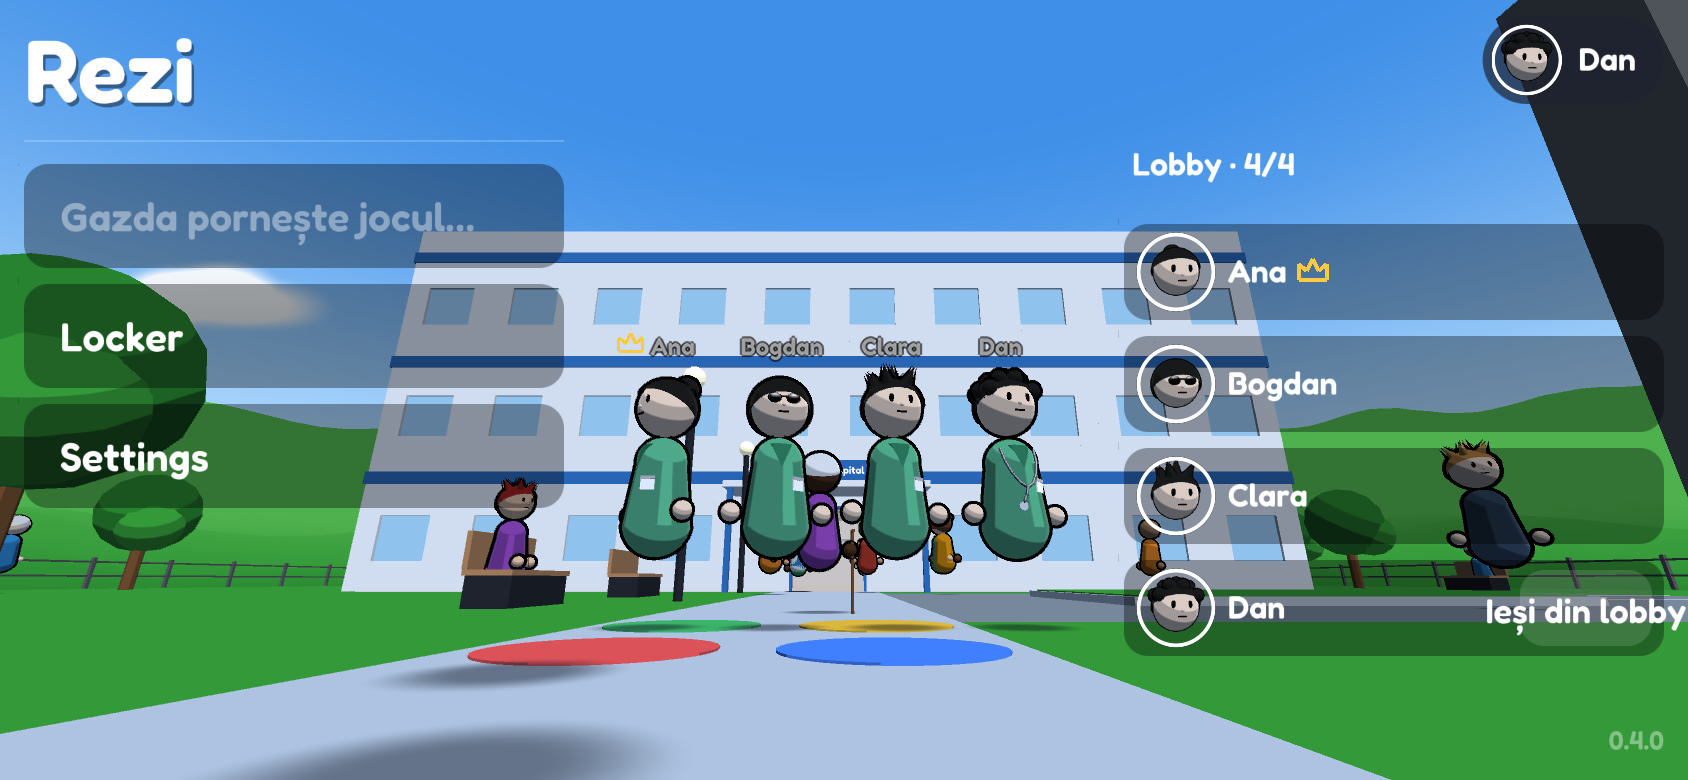
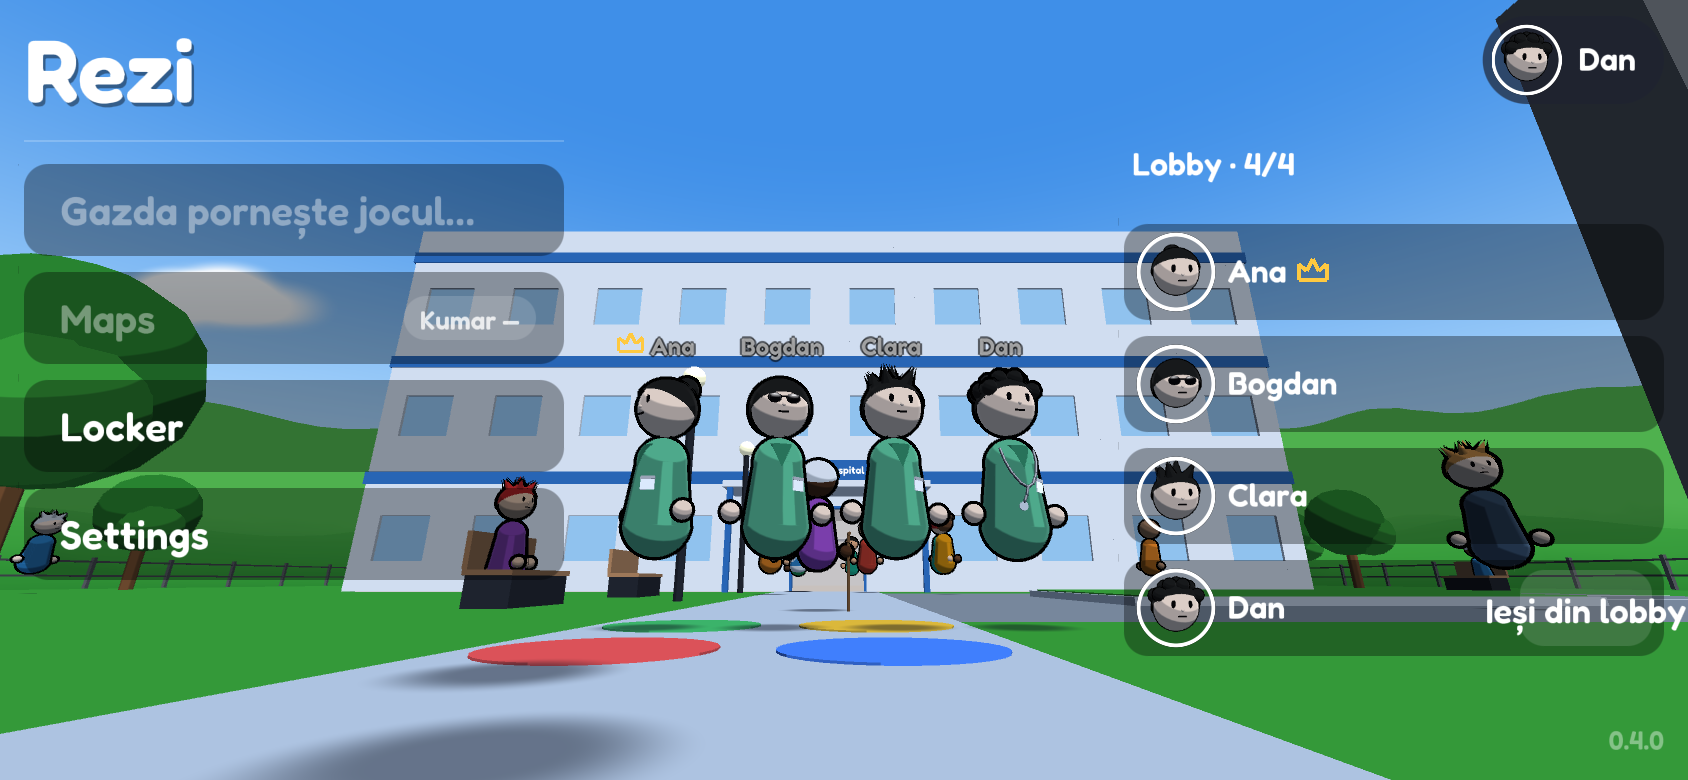
world1: worldmap_travel starts parked so it drives; map open log names the overview

diff --git a/game/game.c b/game/game.c
@@ -568,7 +568,7 @@ bool game_init(MgApp *app)
     if (g->perf.active && (SDL_strncmp(g->perf.scenario, "worldmap", 8) == 0 || SDL_strcmp(g->perf.scenario, "island") == 0)) {
         play_now = false; /* the map scene alone: the hospital is never built */
         g->fe.state = FE_MAIN_MENU;
-        open_map(g, app, g->perf.scenario[0] == 'i' ? WM_ARRIVED : WM_OVERVIEW);
+        open_map(g, app, SDL_strcmp(g->perf.scenario, "worldmap") == 0 ? WM_OVERVIEW : WM_ARRIVED); /* travel starts parked, then drives on */
     }
     if (g->perf.active && SDL_strcmp(g->perf.scenario, "menu") == 0) {
         play_now = false;
@@ -906,7 +906,7 @@ static bool open_map(Game *g, MgApp *app, WmState state)
     g->fe.depth = 0;
     g->fe.state = FE_MAIN_MENU;
     frontend_go(&g->fe, FE_MAP);
-    mg_log_info("world: map open (%s) in %.1f ms, level %s", state == WM_BOOKS ? "books" : "arrived", (double)SDL_GetTicksNS() * 1e-6 - t0,
+    mg_log_info("world: map open (%s) in %.1f ms, level %s", state == WM_BOOKS ? "books" : state == WM_OVERVIEW ? "overview" : "arrived", (double)SDL_GetTicksNS() * 1e-6 - t0,
                 cur_book(g)->levels[level].id);
     return true;
 }
